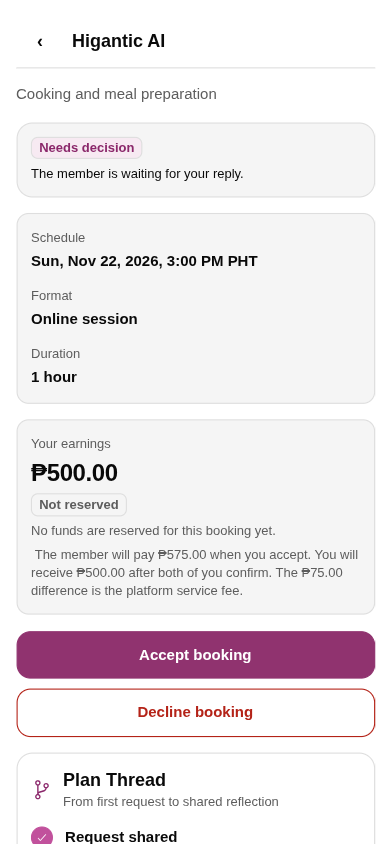
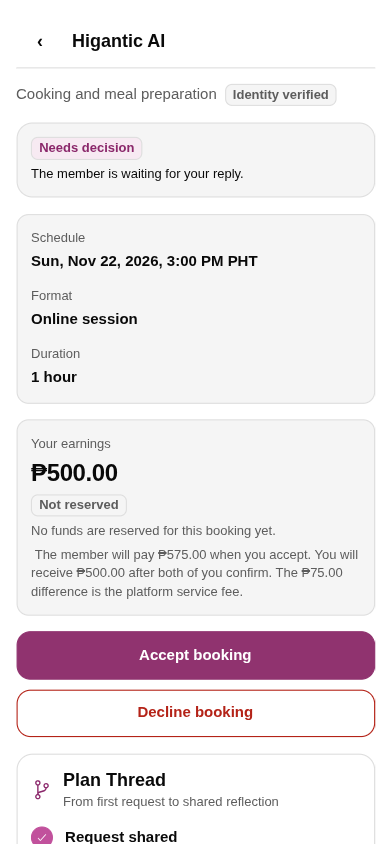
fix(mobile): finalize evidence record and request trust signal
- show the identity chip on the Companion request detail
- use an outlined shared-record toggle with decision-aware closed copy
- remove the false loading branch and clean evidence tests

diff --git a/apps/mobile/src/design-system/organisms/BookingEvidencePresentation.tsx b/apps/mobile/src/design-system/organisms/BookingEvidencePresentation.tsx
@@ -4,7 +4,7 @@ import { Pressable, StyleSheet, View } from 'react-native'
 import { ActionButton } from '@/design-system/atoms/ActionButton'
 import { AppText } from '@/design-system/atoms/Typography'
 import { ConfirmationDialog } from '@/design-system/molecules/ConfirmationDialog'
-import { evidenceClosedSummary, evidenceDecisionCopy, evidenceSharedRowCopy, type EvidenceDecision, type EvidenceSharedRow } from '@/data/evidence'
+import { evidenceDecisionCopy, evidenceSharedRowCopy, type EvidenceDecision, type EvidenceSharedRow } from '@/data/evidence'
 import { useAppTheme } from '@/theme/ThemeProvider'
 import { density } from '@/theme/tokens'
 
@@ -60,7 +60,15 @@ export function BookingEvidencePresentation({
         <View style={styles.copy}>
           <AppText variant="heading">{canDecide ? copy.label : 'Booking evidence'}</AppText>
           <AppText variant="caption" color={theme.colors.textMuted}>
-            {loading ? 'Loading the live evidence decision.' : copy.detail}
+            {loading
+              ? 'Loading the live evidence decision.'
+              : canDecide
+                ? copy.detail
+                : decision === 'uploaded'
+                  ? 'Private image saved for authorized safety review only.'
+                  : decision === 'skipped'
+                    ? 'No image added.'
+                    : 'No evidence decision recorded.'}
           </AppText>
         </View>
 
@@ -69,8 +77,8 @@ export function BookingEvidencePresentation({
             accessibilityRole="button"
             accessibilityLabel={recordOpen ? 'Hide shared safety record' : 'View shared safety record'}
             onPress={() => setRecordOpen((open) => !open)}
-            style={styles.recordToggle}>
-            <AppText variant="caption" color={theme.colors.textMuted}>
+            style={[styles.recordToggle, { borderColor: theme.colors.border }]}>
+            <AppText variant="bodyStrong" color={theme.colors.text}>
               {recordOpen ? 'Hide shared safety record' : 'View shared safety record'}
             </AppText>
           </Pressable>
@@ -161,6 +169,6 @@ const styles = StyleSheet.create({
   panel: { borderWidth: 1, borderRadius: 16, padding: density.cardPadding, gap: 10 },
   copy: { gap: density.textStackGap },
   sharedRecord: { gap: density.textStackGap },
-  recordToggle: { minHeight: 44, justifyContent: 'center' },
+  recordToggle: { minHeight: 44, justifyContent: 'center', borderWidth: 1, borderRadius: 8, paddingHorizontal: 10 },
   sharedRow: { borderWidth: StyleSheet.hairlineWidth, borderRadius: 12, padding: density.compactCardPadding, gap: 2 },
 })

diff --git a/apps/mobile/src/app/companion-booking/[id].tsx b/apps/mobile/src/app/companion-booking/[id].tsx
@@ -125,7 +125,10 @@ function CompanionBookingDetail({ booking, viewerId, canCancel, busy, message, o
   return (
     <Screen contentStyle={styles.content}>
       <AppHeader title={booking.memberDisplayName} back onBack={() => router.canGoBack() ? router.back() : router.replace('/companion-bookings')} />
-      <AppText color={theme.colors.textMuted}>{booking.category}</AppText>
+      <View style={styles.headerMeta}>
+        <AppText color={theme.colors.textMuted}>{booking.category}</AppText>
+        {booking.memberIdentityApproved ? <StatusBadge label="Identity verified" tone="neutral" /> : null}
+      </View>
       <View accessibilityLiveRegion="polite" style={[styles.status, { backgroundColor: theme.colors.surface, borderColor: theme.colors.border }]}>
         <StatusBadge label={status.label} tone={status.tone} />
         <AppText variant="caption">{status.explanation}</AppText>
@@ -234,6 +237,7 @@ export function ErrorBoundary({ retry }: ErrorBoundaryProps) {
 
 const styles = StyleSheet.create({
   content: { paddingTop: 16, paddingBottom: 40, gap: 16 },
+  headerMeta: { flexDirection: 'row', alignItems: 'center', flexWrap: 'wrap', gap: 8 },
   state: { flexGrow: 1, justifyContent: 'center', gap: 16 },
 
   status: { borderWidth: 1, borderRadius: 16, padding: 14, gap: 5 },

diff --git a/apps/mobile/tests/unit/safety/evidence.test.ts b/apps/mobile/tests/unit/safety/evidence.test.ts
@@ -1,4 +1,4 @@
-import { evidenceClosedSummary, 
+import {
   MAX_EVIDENCE_IMAGE_BYTES,
   evidenceAssetToArrayBuffer,
   evidenceDecisionCopy,
@@ -7,12 +7,6 @@ import { evidenceClosedSummary,
 } from '@/data/evidence'
 
 describe('booking evidence helpers', () => {
-  it('summarizes a closed record without a loading or sticky-warning line', () => {
-    expect(evidenceClosedSummary('uploaded')).toContain('Private image saved')
-    expect(evidenceClosedSummary('skipped')).toBe('No image added.')
-    expect(evidenceClosedSummary(undefined)).toBe('No evidence decision recorded.')
-  })
-
   it('uses truthful role, privacy, and decision copy', () => {
     expect(evidenceDecisionCopy('companion_start', 'uploaded')).toEqual({ label: 'Start evidence', detail: 'Private image saved for authorized safety review only.' })
     expect(evidenceDecisionCopy('member_end', 'skipped')).toEqual({ label: 'End evidence', detail: 'No image added.' })

diff --git a/apps/mobile/src/data/evidence.ts b/apps/mobile/src/data/evidence.ts
@@ -18,11 +18,6 @@ export function evidenceDecisionCopy(role: 'companion_start' | 'member_end', dec
   return { label, detail: 'Upload one private image, or continue without evidence.' }
 }
 
-export function evidenceClosedSummary(decision: EvidenceDecision) {
-  if (decision === 'uploaded') return 'Private image saved for authorized safety review only.'
-  if (decision === 'skipped') return 'No image added.'
-  return 'No evidence decision recorded.'
-}
 
 export type EvidenceSharedRow = {
   role: 'companion_start' | 'member_end'
